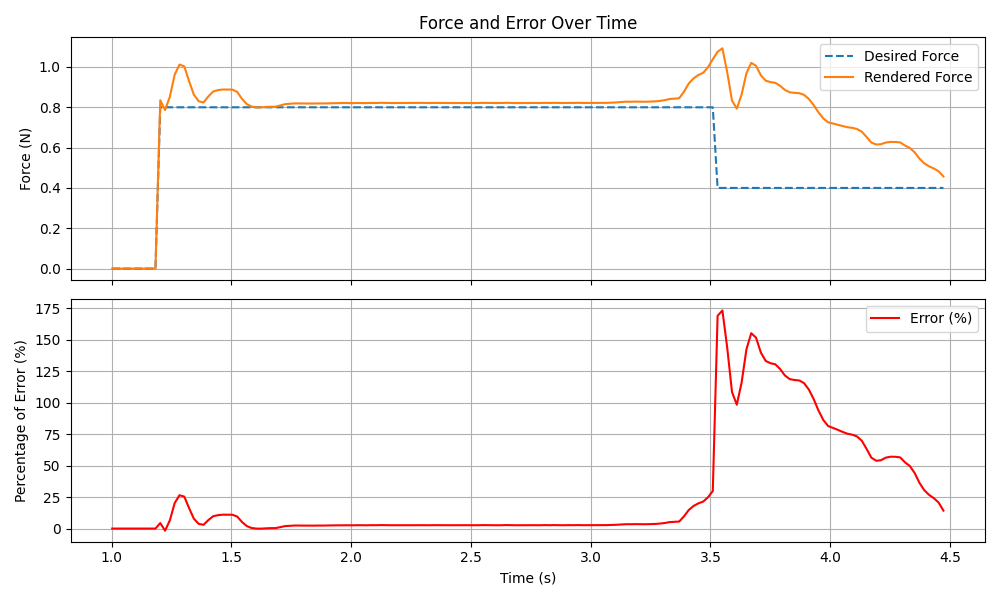
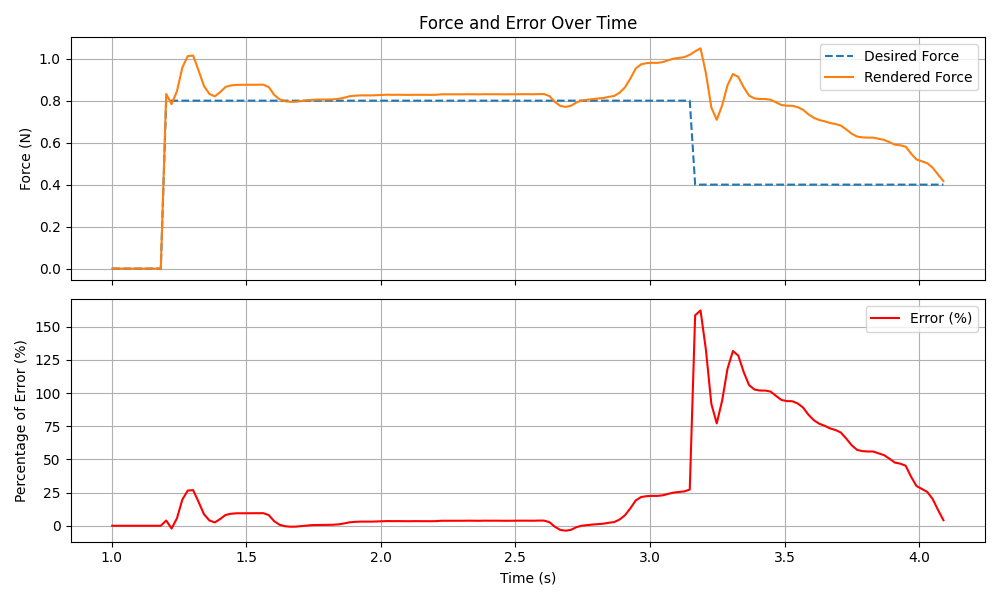
update

diff --git a/friction_render.py b/friction_render.py
@@ -64,6 +64,7 @@ try:
         last_angle_change = 0
         cold_start = True
         pid_scale_factor = 1
+        external_velocity = 0
 
         motorVelocity_history = [0 for _ in range(affective_history)]
 
@@ -124,6 +125,8 @@ try:
                 targetPosition = frictionForce / spring_rate - 1
 
             # === PID ===
+            if calibrated and external_velocity > delta_v:
+                targetPosition += external_velocity * dt
             velocity = (smoothedPosition - lastSmoothedPosition) / dt
             error = targetPosition - smoothedPosition
             integral += error * dt
